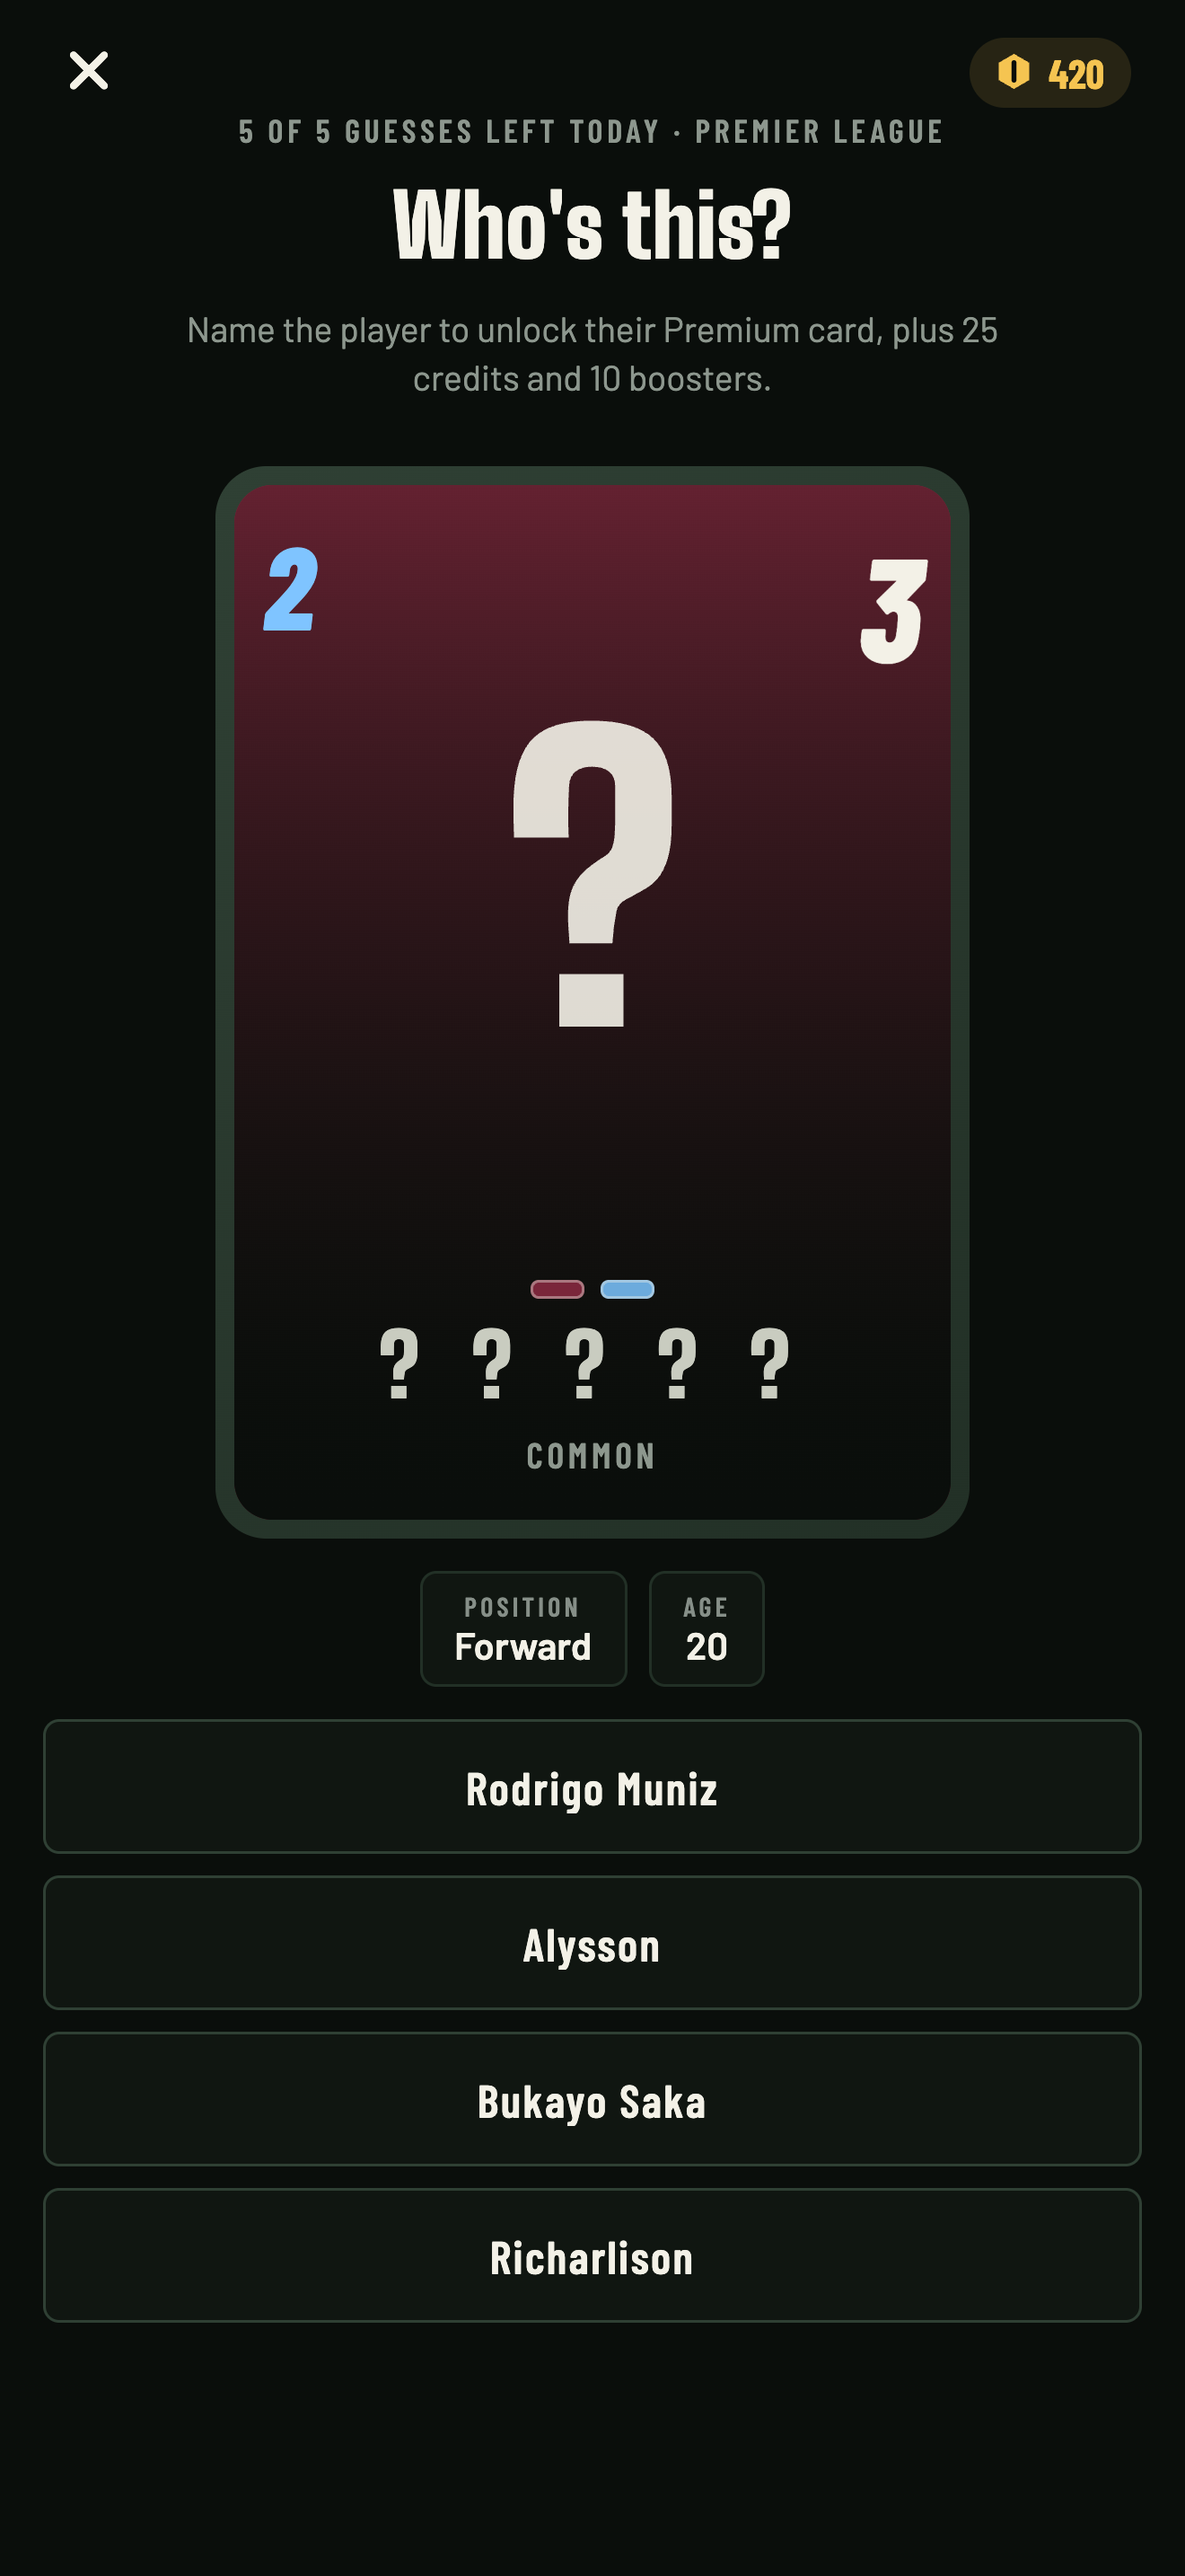
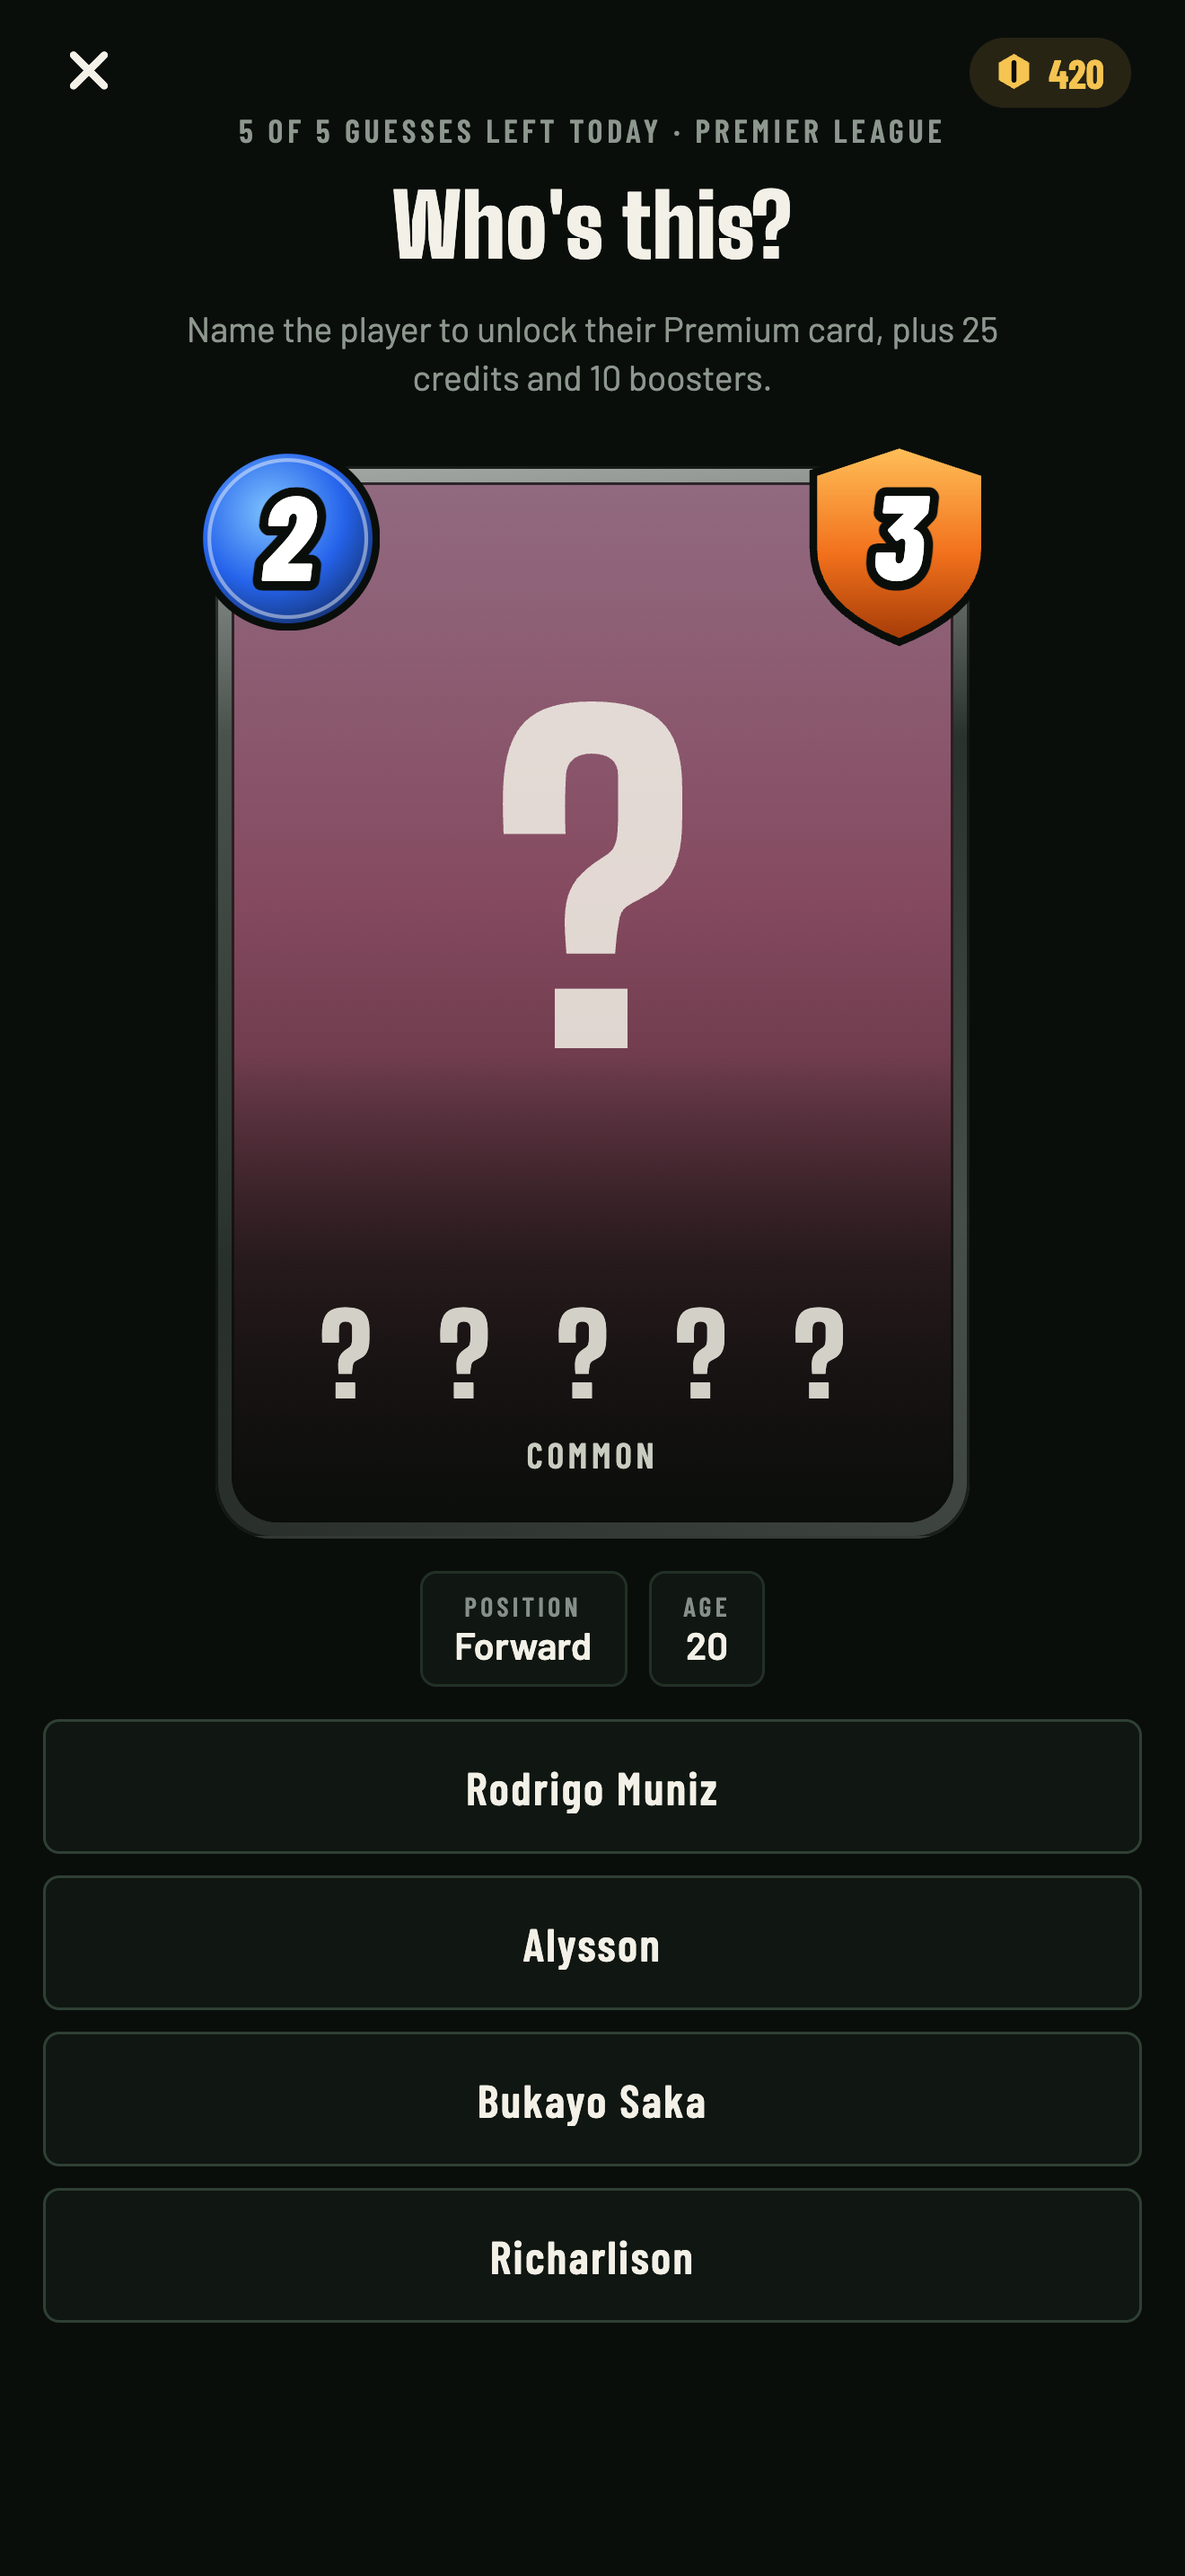
Mini mystery card on the Cards tab; fresh screenshots
The "Who's this?" panel shows a small gold-framed mystery card (a generic
backlit silhouette) instead of a bordered question mark. App Store and
README screenshots retaken with today's card, pack and Duel changes.

Changed region(s): [[0.1553, 0.1552, 0.8386, 0.6206], [0.4348, 0.5586, 0.5591, 0.5896]]

diff --git a/app/(tabs)/cards.tsx b/app/(tabs)/cards.tsx
@@ -3,7 +3,9 @@ import { View, Text, StyleSheet, Pressable, TextInput, ScrollView, useWindowDime
 import { router } from 'expo-router';
 import { Ionicons } from '@expo/vector-icons';
 import { Screen, Header, LeagueTabs, Section, Panel, Skeleton, Failed, Pill, Button, Empty, Wallet, tap } from '../../components/ui';
-import { SnapCard, CardBack, cardHeight } from '../../components/SnapCard';
+import { SnapCard, CardBack, RARITY_FRAME, cardHeight } from '../../components/SnapCard';
+import { LinearGradient } from 'expo-linear-gradient';
+import Svg, { Path, Text as SvgText } from 'react-native-svg';
 import { useLeague } from '../../context/league';
 import { useCards } from '../../hooks/data';
 import { useCollection, usePacks, useProfile, today } from '../../lib/storage';
@@ -48,6 +50,32 @@ function PackHero({ opened, leagueName, onOpen }: { opened: boolean; leagueName:
       </View>
       <Ionicons name="chevron-forward" size={20} color={C.muted} />
     </Panel>
+  );
+}
+
+/** A small mystery card: gold frame, a backlit head-and-shoulders silhouette, a question mark. */
+function MysteryThumb({ width }: { width: number }) {
+  const h = cardHeight(width);
+  const f = 3;
+  const iw = width - f * 2;
+  const ih = h - f * 2;
+  // a generic head and shoulders, not any real player's outline
+  const P = (x: number, y: number) => `${(x * iw).toFixed(1)} ${(y * ih).toFixed(1)}`;
+  const figure = `M ${P(0.5, 0.14)} C ${P(0.36, 0.14)} ${P(0.32, 0.26)} ${P(0.34, 0.36)} C ${P(0.36, 0.44)} ${P(0.4, 0.5)} ${P(0.44, 0.53)} L ${P(0.43, 0.58)} C ${P(0.2, 0.62)} ${P(0.06, 0.7)} ${P(0.02, 1)} L ${P(0.98, 1)} C ${P(0.94, 0.7)} ${P(0.8, 0.62)} ${P(0.57, 0.58)} L ${P(0.56, 0.53)} C ${P(0.6, 0.5)} ${P(0.64, 0.44)} ${P(0.66, 0.36)} C ${P(0.68, 0.26)} ${P(0.64, 0.14)} ${P(0.5, 0.14)} Z`;
+  return (
+    <View style={{ width, height: h }}>
+      <LinearGradient colors={RARITY_FRAME.icon} start={{ x: 0, y: 0 }} end={{ x: 1, y: 1 }} style={[StyleSheet.absoluteFill, { borderRadius: 8, borderWidth: 1, borderColor: 'rgba(10,14,11,0.7)' }]} />
+      <View style={{ position: 'absolute', left: f, top: f, width: iw, height: ih, borderRadius: 6, overflow: 'hidden' }}>
+        <LinearGradient colors={['#3A2F12', '#14120A']} style={StyleSheet.absoluteFill} />
+        <Svg width={iw} height={ih} style={StyleSheet.absoluteFill}>
+          <Path d={figure} fill="none" stroke="rgba(255,229,154,0.75)" strokeWidth={2.4} transform={`translate(0 -1)`} />
+          <Path d={figure} fill="#0B100C" />
+          <SvgText x={iw / 2} y={ih * 0.88} fontSize={ih * 0.32} fontFamily={F.display} fontWeight="900" fill="#F5C451" textAnchor="middle">
+            ?
+          </SvgText>
+        </Svg>
+      </View>
+    </View>
   );
 }
 
@@ -133,8 +161,8 @@ export default function Cards() {
             </Panel>
             <PackHero opened={opened} leagueName={profile.bonusPacks && packs[String(league.id)] === today() ? `bonus · ${league.name}` : league.name} onOpen={() => router.push('/pack')} />
             <Panel style={styles.guess} onPress={() => router.push('/guess')} label="Who's this? Name the player to unlock Premium cards">
-              <View style={styles.guessIcon}>
-                <Text style={styles.guessQ}>?</Text>
+              <View style={{ marginHorizontal: 16 }}>
+                <MysteryThumb width={64} />
               </View>
               <View style={{ flex: 1, gap: 2 }}>
                 <Text style={T.kicker}>{Math.max(0, guessesLeft)} of {GUESSES_PER_DAY} left today</Text>
@@ -226,8 +254,6 @@ const styles = StyleSheet.create({
   bar: { height: 6, borderRadius: 3, backgroundColor: C.turf, overflow: 'hidden' },
   barFill: { height: '100%', backgroundColor: C.icon, borderRadius: 3 },
   guess: { flexDirection: 'row', alignItems: 'center', gap: S.lg, padding: S.base, paddingLeft: S.lg },
-  guessIcon: { width: 64, height: 88, borderRadius: 10, borderWidth: 2, borderColor: C.icon, alignItems: 'center', justifyContent: 'center', backgroundColor: alpha(C.icon, 0.08), marginHorizontal: 16 },
-  guessQ: { fontFamily: F.display, fontSize: 48, color: C.icon },
   pack: { flexDirection: 'row', alignItems: 'center', gap: S.lg, padding: S.base, paddingLeft: S.lg },
   fan: { width: 96, height: 96, alignItems: 'center', justifyContent: 'center' },
   fanCard: { position: 'absolute' },
